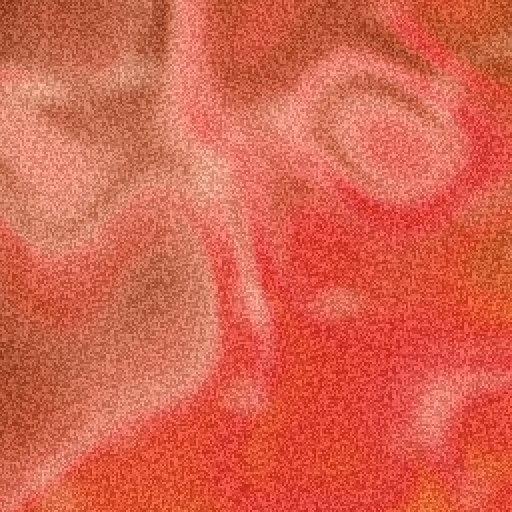
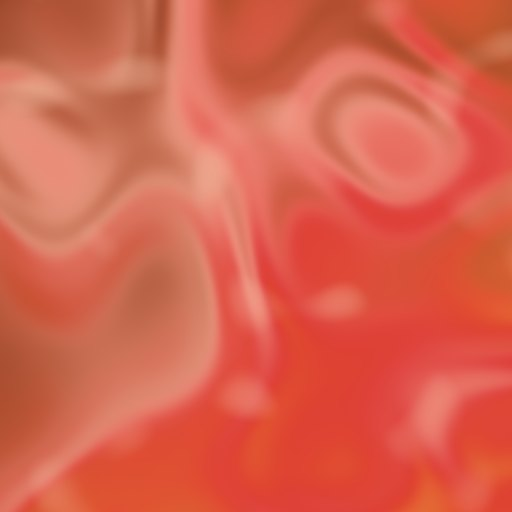
feat(v1.2): 폴더 그레인을 움직이게 · 사이드바 태그 채도 낮춤
## 그레인을 굽지 않고 얹는다

이미지에 구워 넣었더니 **정지 화면**이었다 — 원한 건 앱 배경처럼 일렁이는 결이다.
그림은 색만 담고, 노이즈 타일 한 장을 CSS로 얹어 자리를 튀게 한다.

⚠ **`steps()`로 튄다.** 부드럽게 움직이면 노이즈가 미끄러지는 것처럼 보여서
"흐르는 얼룩"이 된다. 필름 그레인은 매 프레임 자리를 갈아치우는 것이라 계단 함수라야 한다.

⚠ **타일보다 크게 깔고 통째로 옮긴다.** `background-position`을 옮기면 경계가
드러난다. 사방으로 키워두면(`inset: -50%`) 어디를 옮겨도 빈 자리가 안 생긴다.

타일 하나를 모든 폴더가 공유하므로 폴더가 몇 개든 그림은 한 장이다.
그레인을 뺀 덕에 배경 15장이 1.2MB → 224KB로 줄었다(노이즈는 JPEG가 압축을 못 한다).
`prefers-reduced-motion`이면 멈춰 세운다 — 결은 남는다.

## 사이드바는 채도를 낮춘 색을 쓴다

사전의 칩과 같은 채도를 썼더니 **색 줄이 열 개 넘게 세로로 이어져 알록달록**했고
게임 이름이 안 읽혔다. 톤에 `dim`(채도 40%)을 따로 뒀다 — 색은 알아볼 만큼만 남기고
배경으로 물러난다.

Changed region(s): [[0.0, 0.0, 1.0, 1.0]]

diff --git a/frontend/src/lib/tagColors.ts b/frontend/src/lib/tagColors.ts
@@ -34,8 +34,16 @@ type Tone = {
   label: string;
   /** 글씨·테두리. 어두운 배경 위에서 읽혀야 하니 밝다 */
   text: string;
-  /** 배경 한 겹. 글씨를 안 덮게 아주 옅다 */
+  /** 배경 한 겹. 글씨를 안 덮게 아주 옅다 (사전의 칩) */
   soft: string;
+  /**
+   * 사이드바의 태그 줄 배경 (v1.2).
+   *
+   * ⚠ `soft`보다 **채도를 크게 낮춘다.** 사이드바는 색 줄이 열 개 넘게 세로로
+   * 이어지는 자리라, 사전의 칩과 같은 채도면 목록이 알록달록해서 게임 이름이 안 읽힌다.
+   * 색은 알아볼 만큼만 남기고 배경으로 물러나야 한다
+   */
+  dim: string;
   /** 폴더 배경을 이루는 세 덩어리 — 밝은 것 / 중간 / 바닥 */
   hi: string;
   mid: string;
@@ -43,20 +51,20 @@ type Tone = {
 };
 
 export const TAG_COLORS: Record<TagColorName, Tone> = {
-  rose:     { label: "장미",   text: "#f0919d", soft: "rgba(240,145,157,0.20)", hi: "#e8546f", mid: "#a8365a", low: "#3a1424" },
-  coral:    { label: "산호",   text: "#f5a07c", soft: "rgba(245,160,124,0.20)", hi: "#f0714a", mid: "#b8482f", low: "#3b1710" },
-  amber:    { label: "호박",   text: "#efc072", soft: "rgba(239,192,114,0.20)", hi: "#f0ad3c", mid: "#a9741c", low: "#35240d" },
-  sand:     { label: "모래",   text: "#e3d494", soft: "rgba(227,212,148,0.20)", hi: "#dcc95f", mid: "#948333", low: "#2f2a14" },
-  olive:    { label: "올리브", text: "#c3d183", soft: "rgba(195,209,131,0.20)", hi: "#a8c44c", mid: "#68812c", low: "#212a10" },
-  sage:     { label: "세이지", text: "#9fd39a", soft: "rgba(159,211,154,0.20)", hi: "#63c266", mid: "#377b3f", low: "#132615" },
-  mint:     { label: "민트",   text: "#8fdcc0", soft: "rgba(143,220,192,0.20)", hi: "#3fd0a0", mid: "#24866b", low: "#0e2b22" },
-  teal:     { label: "청록",   text: "#84d2da", soft: "rgba(132,210,218,0.20)", hi: "#2fc2d2", mid: "#1d7b88", low: "#0b282c" },
-  sky:      { label: "하늘",   text: "#8fc2ef", soft: "rgba(143,194,239,0.20)", hi: "#3f9fee", mid: "#2a628f", low: "#0e2033" },
-  denim:    { label: "데님",   text: "#94a6ee", soft: "rgba(148,166,238,0.20)", hi: "#5470ea", mid: "#33438f", low: "#131834" },
-  lavender: { label: "라벤더", text: "#b79cf0", soft: "rgba(183,156,240,0.20)", hi: "#8b5ce8", mid: "#553794", low: "#1e1338" },
-  plum:     { label: "자두",   text: "#d494e4", soft: "rgba(212,148,228,0.20)", hi: "#b754d8", mid: "#71318a", low: "#281033" },
-  mauve:    { label: "모브",   text: "#e59ab4", soft: "rgba(229,154,180,0.20)", hi: "#d95f95", mid: "#8b3760", low: "#301224" },
-  clay:     { label: "흙",     text: "#d6ac93", soft: "rgba(214,172,147,0.20)", hi: "#c47c4f", mid: "#7d4d33", low: "#2a1a12" },
+  rose:     { label: "장미",   text: "#f0919d", dim: "rgba(201,153,159,0.22)", soft: "rgba(240,145,157,0.20)", hi: "#e8546f", mid: "#a8365a", low: "#3a1424" },
+  coral:    { label: "산호",   text: "#f5a07c", dim: "rgba(199,158,140,0.22)", soft: "rgba(245,160,124,0.20)", hi: "#f0714a", mid: "#b8482f", low: "#3b1710" },
+  amber:    { label: "호박",   text: "#efc072", dim: "rgba(192,170,133,0.22)", soft: "rgba(239,192,114,0.20)", hi: "#f0ad3c", mid: "#a9741c", low: "#35240d" },
+  sand:     { label: "모래",   text: "#e3d494", dim: "rgba(192,184,153,0.22)", soft: "rgba(227,212,148,0.20)", hi: "#dcc95f", mid: "#948333", low: "#2f2a14" },
+  olive:    { label: "올리브", text: "#c3d183", dim: "rgba(168,174,138,0.22)", soft: "rgba(195,209,131,0.20)", hi: "#a8c44c", mid: "#68812c", low: "#212a10" },
+  sage:     { label: "세이지", text: "#9fd39a", dim: "rgba(157,182,154,0.22)", soft: "rgba(159,211,154,0.20)", hi: "#63c266", mid: "#377b3f", low: "#132615" },
+  mint:     { label: "민트",   text: "#8fdcc0", dim: "rgba(149,185,172,0.22)", soft: "rgba(143,220,192,0.20)", hi: "#3fd0a0", mid: "#24866b", low: "#0e2b22" },
+  teal:     { label: "청록",   text: "#84d2da", dim: "rgba(141,177,181,0.22)", soft: "rgba(132,210,218,0.20)", hi: "#2fc2d2", mid: "#1d7b88", low: "#0b282c" },
+  sky:      { label: "하늘",   text: "#8fc2ef", dim: "rgba(152,177,200,0.22)", soft: "rgba(143,194,239,0.20)", hi: "#3f9fee", mid: "#2a628f", low: "#0e2033" },
+  denim:    { label: "데님",   text: "#94a6ee", dim: "rgba(155,164,200,0.22)", soft: "rgba(148,166,238,0.20)", hi: "#5470ea", mid: "#33438f", low: "#131834" },
+  lavender: { label: "라벤더", text: "#b79cf0", dim: "rgba(174,161,204,0.22)", soft: "rgba(183,156,240,0.20)", hi: "#8b5ce8", mid: "#553794", low: "#1e1338" },
+  plum:     { label: "자두",   text: "#d494e4", dim: "rgba(185,153,193,0.22)", soft: "rgba(212,148,228,0.20)", hi: "#b754d8", mid: "#71318a", low: "#281033" },
+  mauve:    { label: "모브",   text: "#e59ab4", dim: "rgba(195,158,170,0.22)", soft: "rgba(229,154,180,0.20)", hi: "#d95f95", mid: "#8b3760", low: "#301224" },
+  clay:     { label: "흙",     text: "#d6ac93", dim: "rgba(182,162,150,0.22)", soft: "rgba(214,172,147,0.20)", hi: "#c47c4f", mid: "#7d4d33", low: "#2a1a12" },
 };
 
 /**
@@ -95,6 +103,7 @@ export const NEUTRAL: Tone = {
   label: "없음",
   text: "rgba(255,255,255,0.70)",
   soft: "rgba(255,255,255,0.05)",
+  dim: "rgba(255,255,255,0.05)",
   hi: "#5a5a5a",
   mid: "#3a3a3a",
   low: "#161616",

diff --git a/frontend/src/app/globals.css b/frontend/src/app/globals.css
@@ -498,3 +498,53 @@
   outline: 2px solid rgba(255, 255, 255, 0.6);
   outline-offset: 2px;
 }
+
+/*
+ * 움직이는 필름 그레인 (v1.2).
+ *
+ * 폴더 배경 그림에는 **그레인을 굽지 않았다** — 구우면 정지 화면이라 안 움직인다.
+ * 대신 노이즈 타일 한 장을 얹고 위치를 튀게 한다.
+ *
+ * ## `steps()`로 튄다
+ *
+ * 부드럽게 움직이면 노이즈가 미끄러지는 것처럼 보여서 "흐르는 얼룩"이 된다.
+ * 필름 그레인은 매 프레임 **자리를 갈아치우는** 것이라 계단 함수라야 한다.
+ *
+ * ## 타일보다 크게 깔고 옮긴다
+ *
+ * `background-position`을 옮기면 타일 경계가 드러난다. 요소를 사방으로 넉넉히
+ * 키워두고(`-inset-[50%]`) 통째로 옮기면 어디를 옮겨도 빈 자리가 안 생긴다.
+ *
+ * 타일 하나를 모든 폴더가 공유하므로 폴더가 몇 개든 그림은 한 장이다
+ */
+@keyframes grain-shift {
+  0%   { transform: translate(0, 0); }
+  10%  { transform: translate(-6%, -4%); }
+  20%  { transform: translate(-11%, 3%); }
+  30%  { transform: translate(4%, -9%); }
+  40%  { transform: translate(-4%, 12%); }
+  50%  { transform: translate(-12%, 5%); }
+  60%  { transform: translate(8%, 2%); }
+  70%  { transform: translate(2%, -10%); }
+  80%  { transform: translate(-8%, 7%); }
+  90%  { transform: translate(6%, 6%); }
+  100% { transform: translate(0, 0); }
+}
+
+.grain-layer {
+  position: absolute;
+  /* 옮겨도 빈 자리가 안 생기게 사방으로 키운다 */
+  inset: -50%;
+  background-image: url("/tag-bg/grain.png");
+  background-repeat: repeat;
+  /* 알갱이 크기. 원본 192px을 그대로 쓰면 폴더에서 너무 곱다 */
+  background-size: 128px 128px;
+  opacity: 0.55;
+  pointer-events: none;
+  animation: grain-shift 1.1s steps(1) infinite;
+}
+
+/* 움직임을 싫어하는 사람에겐 멈춰 세운다 — 결은 그대로 남는다 */
+@media (prefers-reduced-motion: reduce) {
+  .grain-layer { animation: none; }
+}

diff --git a/tools/gen-grain.js b/tools/gen-grain.js
@@ -1,0 +1,35 @@
+const { app, BrowserWindow } = require("electron");
+const fs = require("fs");
+const path = require("path");
+const OUT = process.argv[2];
+const N = 192;   // 타일 한 변. 작으면 반복이 눈에 보이고, 크면 파일이 커진다
+
+const html = `<!doctype html><meta charset="utf-8"><canvas id="c" width="${N}" height="${N}"></canvas>
+<script>
+window.make = () => {
+  const c = document.getElementById("c");
+  const g = c.getContext("2d");
+  const img = g.createImageData(${N}, ${N});
+  const d = img.data;
+  for (let i = 0; i < d.length; i += 4) {
+    // 흑백 노이즈를 알파로 흘린다 — 밝고 어두운 알갱이가 섞여야 필름 결이 된다
+    const v = Math.random() * 255;
+    d[i] = d[i+1] = d[i+2] = v;
+    d[i+3] = 70 + Math.random() * 90;
+  }
+  g.putImageData(img, 0, 0);
+  return c.toDataURL("image/png");
+};
+</script>`;
+
+app.whenReady().then(async () => {
+  const win = new BrowserWindow({ width: N, height: N, show: false, webPreferences: { offscreen: true } });
+  await win.loadURL("data:text/html;charset=utf-8," + encodeURIComponent(html));
+  await new Promise((r) => setTimeout(r, 400));
+  const url = await win.webContents.executeJavaScript("window.make()");
+  fs.mkdirSync(OUT, { recursive: true });
+  const file = path.join(OUT, "grain.png");
+  fs.writeFileSync(file, Buffer.from(url.split(",")[1], "base64"));
+  console.log("  grain.png", Math.round(fs.statSync(file).size / 1024) + "KB");
+  app.quit();
+});

diff --git a/tools/gen-tag-bg.js b/tools/gen-tag-bg.js
@@ -9,7 +9,8 @@
 // ⚠ 셰이더는 `tools/shaders.json`에 **베껴져 있다.** 원본(frontend/src/lib/fluidShader.ts)을
 // 고치면 여기도 다시 뽑아야 한다 — 자동으로 안 따라간다. 태그 배경용으로 둘을 바꿔뒀다:
 //   · 무지개 순회 제거 — 시간에 따라 색조가 돌면 태그 색이 아니게 된다
-//   · 그레인 0.06 → 0.24, 2px 블록 — 폴더는 손바닥만 해서 결이 없으면 그냥 색면이다
+//   · 그레인 제거 — 구우면 정지 화면이라 안 움직인다. 움직이는 층은 CSS가 얹는다
+//     (`.grain-layer` + `tools/gen-grain.js`가 만드는 grain.png)
 //
 // 색 팔레트는 `tools/tones.json`. 태그 색을 고치면 그것도 다시 만들어야 한다.
 const { app, BrowserWindow } = require("electron");

diff --git a/frontend/src/components/library/LibrarySidebar.tsx b/frontend/src/components/library/LibrarySidebar.tsx
@@ -274,7 +274,7 @@ export default function LibrarySidebar() {
                     style={
                       dropTarget === group.key
                         ? undefined
-                        : { background: tone.soft, borderColor: tone.soft, color: tone.text }
+                        : { background: tone.dim, borderColor: tone.dim, color: tone.text }
                     }
                     className={`flex w-full items-center gap-2 rounded-md border px-2 py-2 text-xs font-semibold tracking-widest uppercase transition-colors ${
                       dropTarget === group.key

diff --git a/frontend/src/components/library/FolderView.tsx b/frontend/src/components/library/FolderView.tsx
@@ -248,6 +248,9 @@ function FolderBox({
         style={{ backgroundImage: `url(${image})` }}
       />
 
+      {/* 움직이는 그레인 — 타일 한 장을 모든 폴더가 공유한다 */}
+      <span aria-hidden className="grain-layer" />
+
       {/*
         한 겹 눌러 준다 (v1.2, 사용자 요청). 셰이더 그림이 밝아서 흰 대문자 라벨이
         묻혔다 — 호버하면 걷혀서 원래 색이 드러난다
